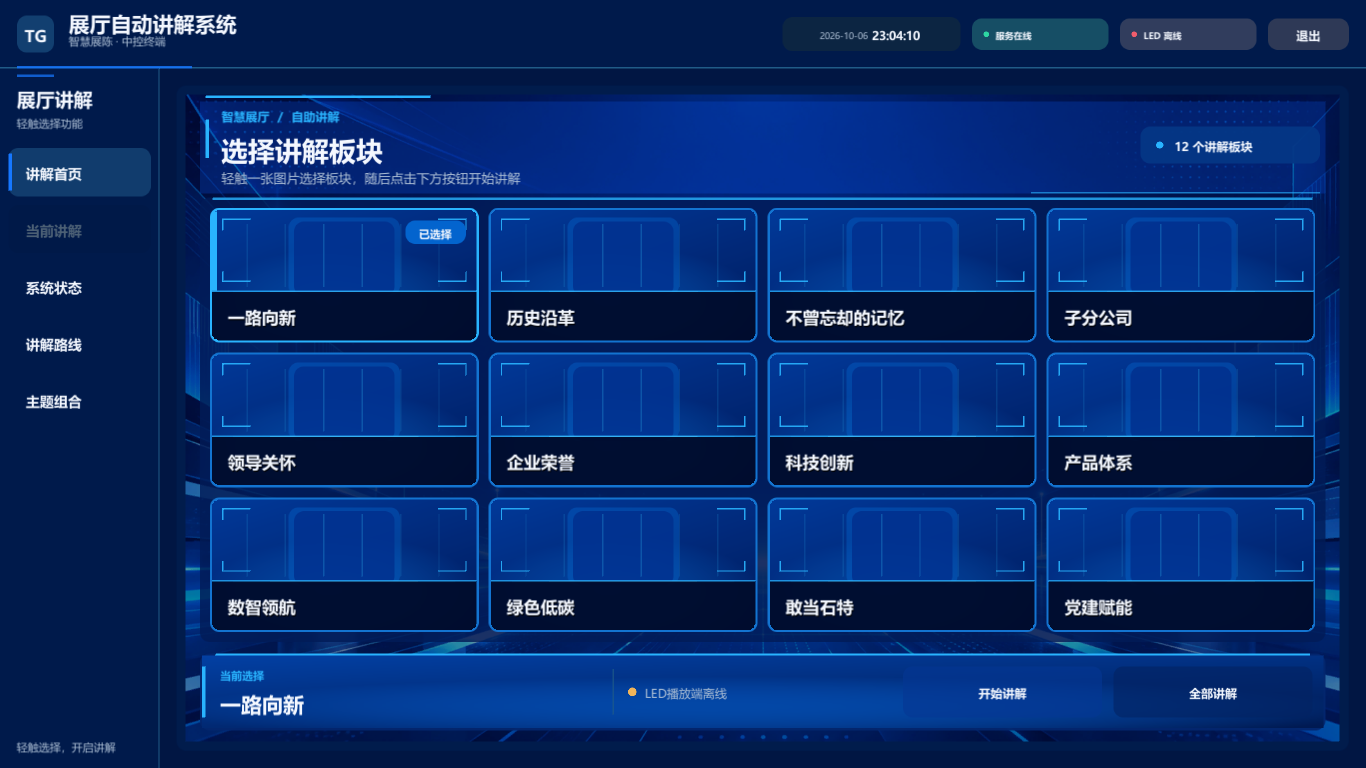
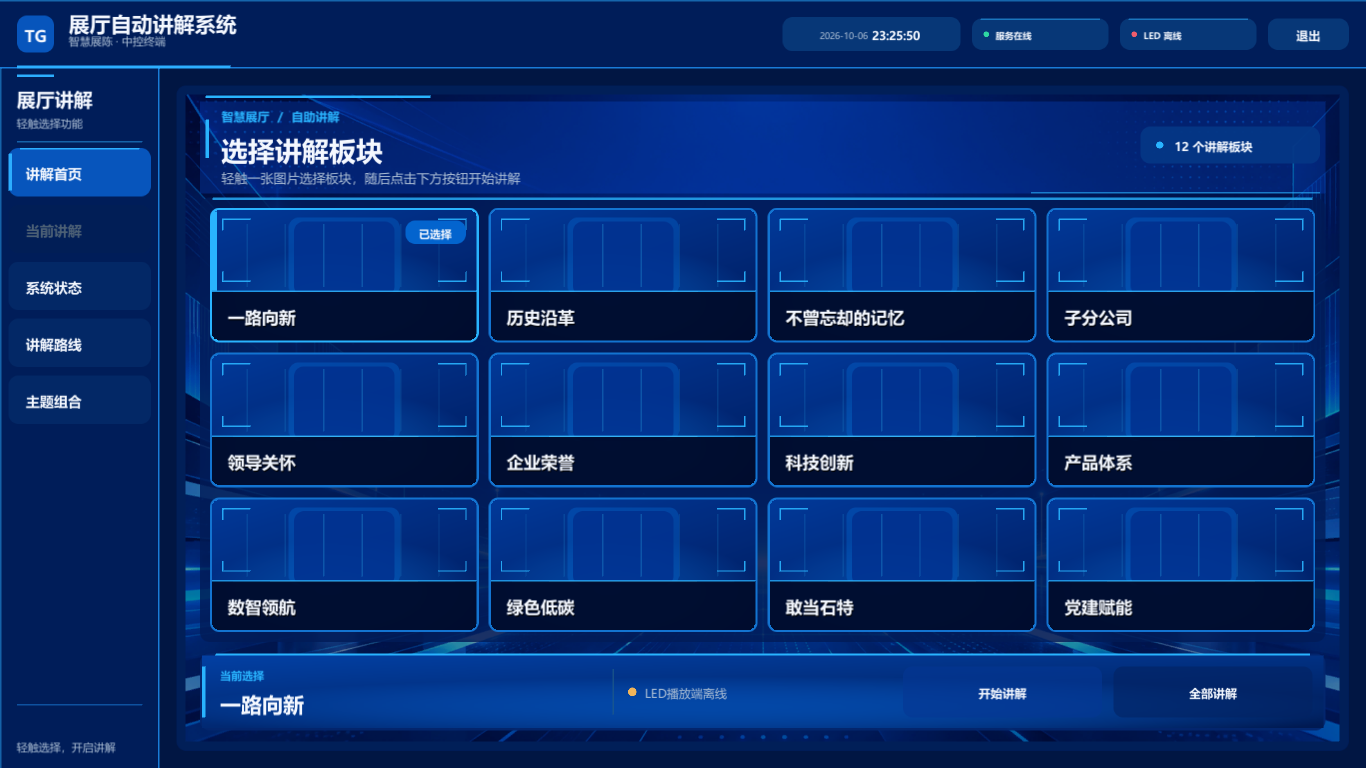
Unify Touch shell chrome with standby blue palette

diff --git a/TGZhanTingControlSystem/src/TouchClient/Assets/Scripts/UI/Components/SideNavigation.cs b/TGZhanTingControlSystem/src/TouchClient/Assets/Scripts/UI/Components/SideNavigation.cs
@@ -16,6 +16,7 @@ namespace TG.Control.Touch.UI.Components
             public TouchShellSection Section;
             public Image Background;
             public Image Accent;
+            public Image TopBeam;
             public Text Label;
             public Image Activity;
             public Button Button;
@@ -33,12 +34,17 @@ namespace TG.Control.Touch.UI.Components
         public SideNavigation(TouchUiFactory factory, TouchTheme theme, Transform parent)
         {
             this.theme = theme;
-            root = factory.Image("Side Navigation", parent, Color.clear);
+            root = factory.Image("Side Navigation", parent, theme.NavigationBackground);
             root.raycastTarget = false;
-            var border = factory.Image("Navigation Border", root.transform, theme.Border);
-            TouchUiFactory.Anchor(border.rectTransform, 1, 0, 1, 1, -1, 0, 0, 0);
+            var leftRail = factory.Image("Navigation Electric Blue Rail", root.transform,
+                new Color(theme.ShellHighlight.r, theme.ShellHighlight.g, theme.ShellHighlight.b, .48f));
+            TouchUiFactory.Anchor(leftRail.rectTransform, 0, 0, 0, 1, 0, 0, 2, 0);
+            leftRail.raycastTarget = false;
+            var border = factory.Image("Navigation Border", root.transform, theme.ShellBorder);
+            TouchUiFactory.Anchor(border.rectTransform, 1, 0, 1, 1, -2, 0, 0, 0);
+            border.raycastTarget = false;
             var signal = factory.Image("Navigation Signal", root.transform,
-                new Color(theme.Primary.r, theme.Primary.g, theme.Primary.b, .72f));
+                theme.ShellHighlight);
             TouchUiFactory.Anchor(signal.rectTransform, 0, 1, 0, 1, theme.PagePadding, -12,
                 theme.PagePadding + 52, -9);
             signal.raycastTarget = false;
@@ -51,6 +57,11 @@ namespace TG.Control.Touch.UI.Components
                 FontStyle.Normal, theme.TextSecondary, TextAnchor.MiddleLeft);
             TouchUiFactory.Anchor(caption.rectTransform, 0, 1, 1, 1,
                 theme.PagePadding, -88, -theme.PagePadding, -62);
+            var headingRule = factory.Image("Navigation Heading Rule", root.transform,
+                new Color(theme.ShellHighlight.r, theme.ShellHighlight.g, theme.ShellHighlight.b, .48f));
+            TouchUiFactory.Anchor(headingRule.rectTransform, 0, 1, 1, 1,
+                theme.PagePadding, -104, -theme.PagePadding, -102);
+            headingRule.raycastTarget = false;
 
             CreateItem(factory, TouchShellSection.ReceptionHome, "讲解首页", 0);
             CreateItem(factory, TouchShellSection.Playback, "当前讲解", 1);
@@ -63,6 +74,12 @@ namespace TG.Control.Touch.UI.Components
                 theme.TextSecondary, TextAnchor.LowerLeft);
             TouchUiFactory.Anchor(footer.rectTransform, 0, 0, 1, 0,
                 theme.PagePadding, theme.PagePadding, -theme.PagePadding, theme.PagePadding + 38);
+            var footerRule = factory.Image("Navigation Footer Rule", root.transform,
+                new Color(theme.ShellBorder.r, theme.ShellBorder.g, theme.ShellBorder.b, .55f));
+            TouchUiFactory.Anchor(footerRule.rectTransform, 0, 0, 1, 0,
+                theme.PagePadding, theme.PagePadding + 64, -theme.PagePadding,
+                theme.PagePadding + 66);
+            footerRule.raycastTarget = false;
             SetActive(TouchShellSection.ReceptionHome);
             SetPlaybackAvailable(false);
         }
@@ -84,14 +101,14 @@ namespace TG.Control.Touch.UI.Components
 
         public void RefreshTheme()
         {
-            root.color = Color.clear;
+            root.color = theme.NavigationBackground;
             foreach (var item in items) Apply(item);
         }
 
         private void CreateItem(TouchUiFactory factory, TouchShellSection section, string text, int index)
         {
             var image = factory.RoundedImage("Navigation - " + text, root.transform,
-                new Color(theme.NavigationBackground.r, theme.NavigationBackground.g, theme.NavigationBackground.b, .18f));
+                new Color(theme.ShellPanel.r, theme.ShellPanel.g, theme.ShellPanel.b, .42f));
             var top = -(112 + index * (theme.NavigationItemHeight + theme.Space12));
             TouchUiFactory.Anchor(image.rectTransform, 0, 1, 1, 1,
                 theme.Space12, top - theme.NavigationItemHeight, -theme.Space12, top);
@@ -110,8 +127,12 @@ namespace TG.Control.Touch.UI.Components
             colors.fadeDuration = .08f;
             button.colors = colors;
 
-            var accent = factory.Image("Selection", image.transform, theme.Primary);
+            var accent = factory.Image("Selection", image.transform, theme.ShellHighlight);
             TouchUiFactory.Anchor(accent.rectTransform, 0, 0, 0, 1, 0, theme.Space8, 5, -theme.Space8);
+            var topBeam = factory.Image("Selected Item Light Rail", image.transform, theme.ShellHighlight);
+            TouchUiFactory.Anchor(topBeam.rectTransform, 0, 1, 1, 1, theme.Space16, -2,
+                -theme.Space16, 0);
+            topBeam.raycastTarget = false;
             var textLabel = factory.Label("Label", image.transform, text, 20, FontStyle.Bold,
                 theme.TextPrimary, TextAnchor.MiddleLeft);
             TouchUiFactory.Anchor(textLabel.rectTransform, 0, 0, 1, 1, theme.Space24, 0, -theme.Space32, 0);
@@ -124,6 +145,7 @@ namespace TG.Control.Touch.UI.Components
                 Section = section,
                 Background = image,
                 Accent = accent,
+                TopBeam = topBeam,
                 Label = textLabel,
                 Activity = activity,
                 Button = button
@@ -134,10 +156,11 @@ namespace TG.Control.Touch.UI.Components
         {
             var selected = item.Section == active;
             item.Background.color = selected
-                ? new Color(theme.PrimaryMuted.r, theme.PrimaryMuted.g, theme.PrimaryMuted.b, .92f)
-                : new Color(theme.NavigationBackground.r, theme.NavigationBackground.g, theme.NavigationBackground.b, .18f);
+                ? theme.ShellPanelActive
+                : new Color(theme.ShellPanel.r, theme.ShellPanel.g, theme.ShellPanel.b, .42f);
             item.Accent.gameObject.SetActive(selected);
-            item.Accent.color = theme.Primary;
+            item.Accent.color = theme.ShellHighlight;
+            item.TopBeam.gameObject.SetActive(selected);
             item.Label.color = !item.Available ? theme.Disabled : theme.TextPrimary;
             item.Activity.gameObject.SetActive(item.Section == TouchShellSection.Playback && item.Available);
             item.Activity.color = theme.Success;

diff --git a/TGZhanTingControlSystem/src/TouchClient/Assets/Scripts/UI/Components/TopBar.cs b/TGZhanTingControlSystem/src/TouchClient/Assets/Scripts/UI/Components/TopBar.cs
@@ -27,17 +27,21 @@ namespace TG.Control.Touch.UI.Components
         public TopBar(TouchUiFactory factory, TouchTheme theme, Transform parent)
         {
             this.theme = theme;
-            root = factory.Image("Top Bar", parent, Color.clear);
+            root = factory.Image("Top Bar", parent, theme.HeaderBackground);
             root.raycastTarget = false;
-            var divider = factory.Image("Top Bar Border", root.transform, theme.Border);
+            var topRim = factory.Image("Top Bar Electric Blue Rim", root.transform,
+                new Color(theme.ShellHighlight.r, theme.ShellHighlight.g, theme.ShellHighlight.b, .5f));
+            TouchUiFactory.Anchor(topRim.rectTransform, 0, 1, 1, 1, 0, -2, 0, 0);
+            topRim.raycastTarget = false;
+            var divider = factory.Image("Top Bar Border", root.transform, theme.ShellBorder);
             TouchUiFactory.Anchor(divider.rectTransform, 0, 0, 1, 0, 0, 0, 0, 2);
-            var brandBeam = factory.Image("Top Bar Brand Beam", root.transform,
-                new Color(theme.Primary.r, theme.Primary.g, theme.Primary.b, .82f));
+            divider.raycastTarget = false;
+            var brandBeam = factory.Image("Top Bar Brand Beam", root.transform, theme.ShellHighlight);
             TouchUiFactory.Anchor(brandBeam.rectTransform, 0, 0, 0, 0, theme.PagePadding, 0,
-                theme.PagePadding + 246, 3);
+                theme.PagePadding + 300, 4);
             brandBeam.raycastTarget = false;
 
-            brandMark = factory.RoundedImage("Brand Mark", root.transform, theme.PrimaryMuted);
+            brandMark = factory.RoundedImage("Brand Mark", root.transform, theme.ShellPanelActive);
             TouchUiFactory.Anchor(brandMark.rectTransform, 0, .5f, 0, .5f,
                 theme.PagePadding, -26, theme.PagePadding + 52, 26);
             var brandLetters = factory.Label("Brand Letters", brandMark.transform, "TG", theme.SectionTitle,
@@ -53,7 +57,7 @@ namespace TG.Control.Touch.UI.Components
             TouchUiFactory.Anchor(subtitle.rectTransform, 0, 0, .5f, .5f,
                 theme.PagePadding + 72, theme.CardSpacing / 2, 0, 0);
 
-            timeSurface = factory.RoundedImage("Local Time Panel", root.transform, theme.SurfaceSoft);
+            timeSurface = factory.RoundedImage("Local Time Panel", root.transform, theme.ShellPanel);
             TouchUiFactory.Anchor(timeSurface.rectTransform, 1, .5f, 1, .5f, -820, -24, -570, 24);
             dateLabel = factory.Label("Current Date", timeSurface.transform, string.Empty, theme.Caption,
                 FontStyle.Normal, theme.TextSecondary, TextAnchor.MiddleRight);
@@ -70,7 +74,7 @@ namespace TG.Control.Touch.UI.Components
                 () => ExitRequested?.Invoke());
             TouchUiFactory.Anchor(exitButton.GetComponent<RectTransform>(), 1, .5f, 1, .5f,
                 -138, -22, -theme.PagePadding, 22);
-            exitButton.GetComponent<Image>().color = Color.Lerp(theme.SecondaryButton, theme.Error, .12f);
+            exitButton.GetComponent<Image>().color = theme.ShellPanel;
             connectionBadge.Set("服务连接中", StatusTone.Warning);
             readinessBadge.Set("状态检查中", StatusTone.Neutral);
             Tick(DateTime.Now, true);
@@ -100,9 +104,9 @@ namespace TG.Control.Touch.UI.Components
 
         public void RefreshTheme()
         {
-            root.color = Color.clear;
-            brandMark.color = theme.PrimaryMuted;
-            timeSurface.color = theme.SurfaceSoft;
+            root.color = theme.HeaderBackground;
+            brandMark.color = theme.ShellPanelActive;
+            timeSurface.color = theme.ShellPanel;
             connectionBadge.RefreshTheme();
             readinessBadge.RefreshTheme();
         }

diff --git a/TGZhanTingControlSystem/src/TouchClient/Assets/Scripts/UI/Components/StatusBadge.cs b/TGZhanTingControlSystem/src/TouchClient/Assets/Scripts/UI/Components/StatusBadge.cs
@@ -20,10 +20,16 @@ namespace TG.Control.Touch.UI.Components
         public StatusBadge(TouchUiFactory factory, TouchTheme theme, Transform parent, string name)
         {
             this.theme = theme;
-            background = factory.RoundedImage(name, parent, theme.SurfaceElevated);
+            background = factory.RoundedImage(name, parent, theme.ShellPanel);
             var layout = background.gameObject.AddComponent<LayoutElement>();
             layout.preferredHeight = theme.StatusBadgeHeight;
             layout.minWidth = 168;
+
+            var rail = factory.Image("Badge Electric Blue Rail", background.transform,
+                new Color(theme.ShellHighlight.r, theme.ShellHighlight.g, theme.ShellHighlight.b, .52f));
+            TouchUiFactory.Anchor(rail.rectTransform, 0, 1, 1, 1, theme.Space12, -2,
+                -theme.Space12, 0);
+            rail.raycastTarget = false;
 
             indicator = factory.RoundedImage("State Indicator", background.transform, theme.TextSecondary);
             TouchUiFactory.Anchor(indicator.rectTransform, 0, .5f, 0, .5f,
@@ -39,7 +45,9 @@ namespace TG.Control.Touch.UI.Components
             label.text = text ?? string.Empty;
             var stateColor = ToneColor(tone);
             indicator.color = stateColor;
-            background.color = Color.Lerp(theme.SurfaceElevated, stateColor, .14f);
+            // Keep the shell's royal-blue surface consistent; only the indicator carries
+            // the semantic online/warning/error color.
+            background.color = theme.ShellPanel;
         }
 
         public void RefreshTheme() => Set(label.text, tone);

diff --git a/TGZhanTingControlSystem/src/TouchClient/Assets/Scripts/UI/Theme/TouchTheme.cs b/TGZhanTingControlSystem/src/TouchClient/Assets/Scripts/UI/Theme/TouchTheme.cs
@@ -13,8 +13,12 @@ namespace TG.Control.Touch.UI.Theme
         public Color SurfaceElevated { get; } = ParseColor("#12385B");
         // Top bar and navigation form one continuous product shell, so they intentionally
         // share the same opaque structural blue instead of appearing as separate panels.
-        public Color HeaderBackground { get; } = ParseColor("#001A4B");
-        public Color NavigationBackground { get; } = ParseColor("#001A4B");
+        public Color HeaderBackground { get; } = ParseColor("#001D59");
+        public Color NavigationBackground { get; } = ParseColor("#001D59");
+        public Color ShellPanel { get; } = ParseColor("#073777");
+        public Color ShellPanelActive { get; } = ParseColor("#0755BC");
+        public Color ShellHighlight { get; } = ParseColor("#2CAEFF");
+        public Color ShellBorder { get; } = ParseColor("#197BD8");
         // Product structure always uses the fixed brand blue. Server configuration must not recolor
         // navigation, semantic states or every primary action.
         public Color Primary { get; } = ParseColor("#1677FF");
